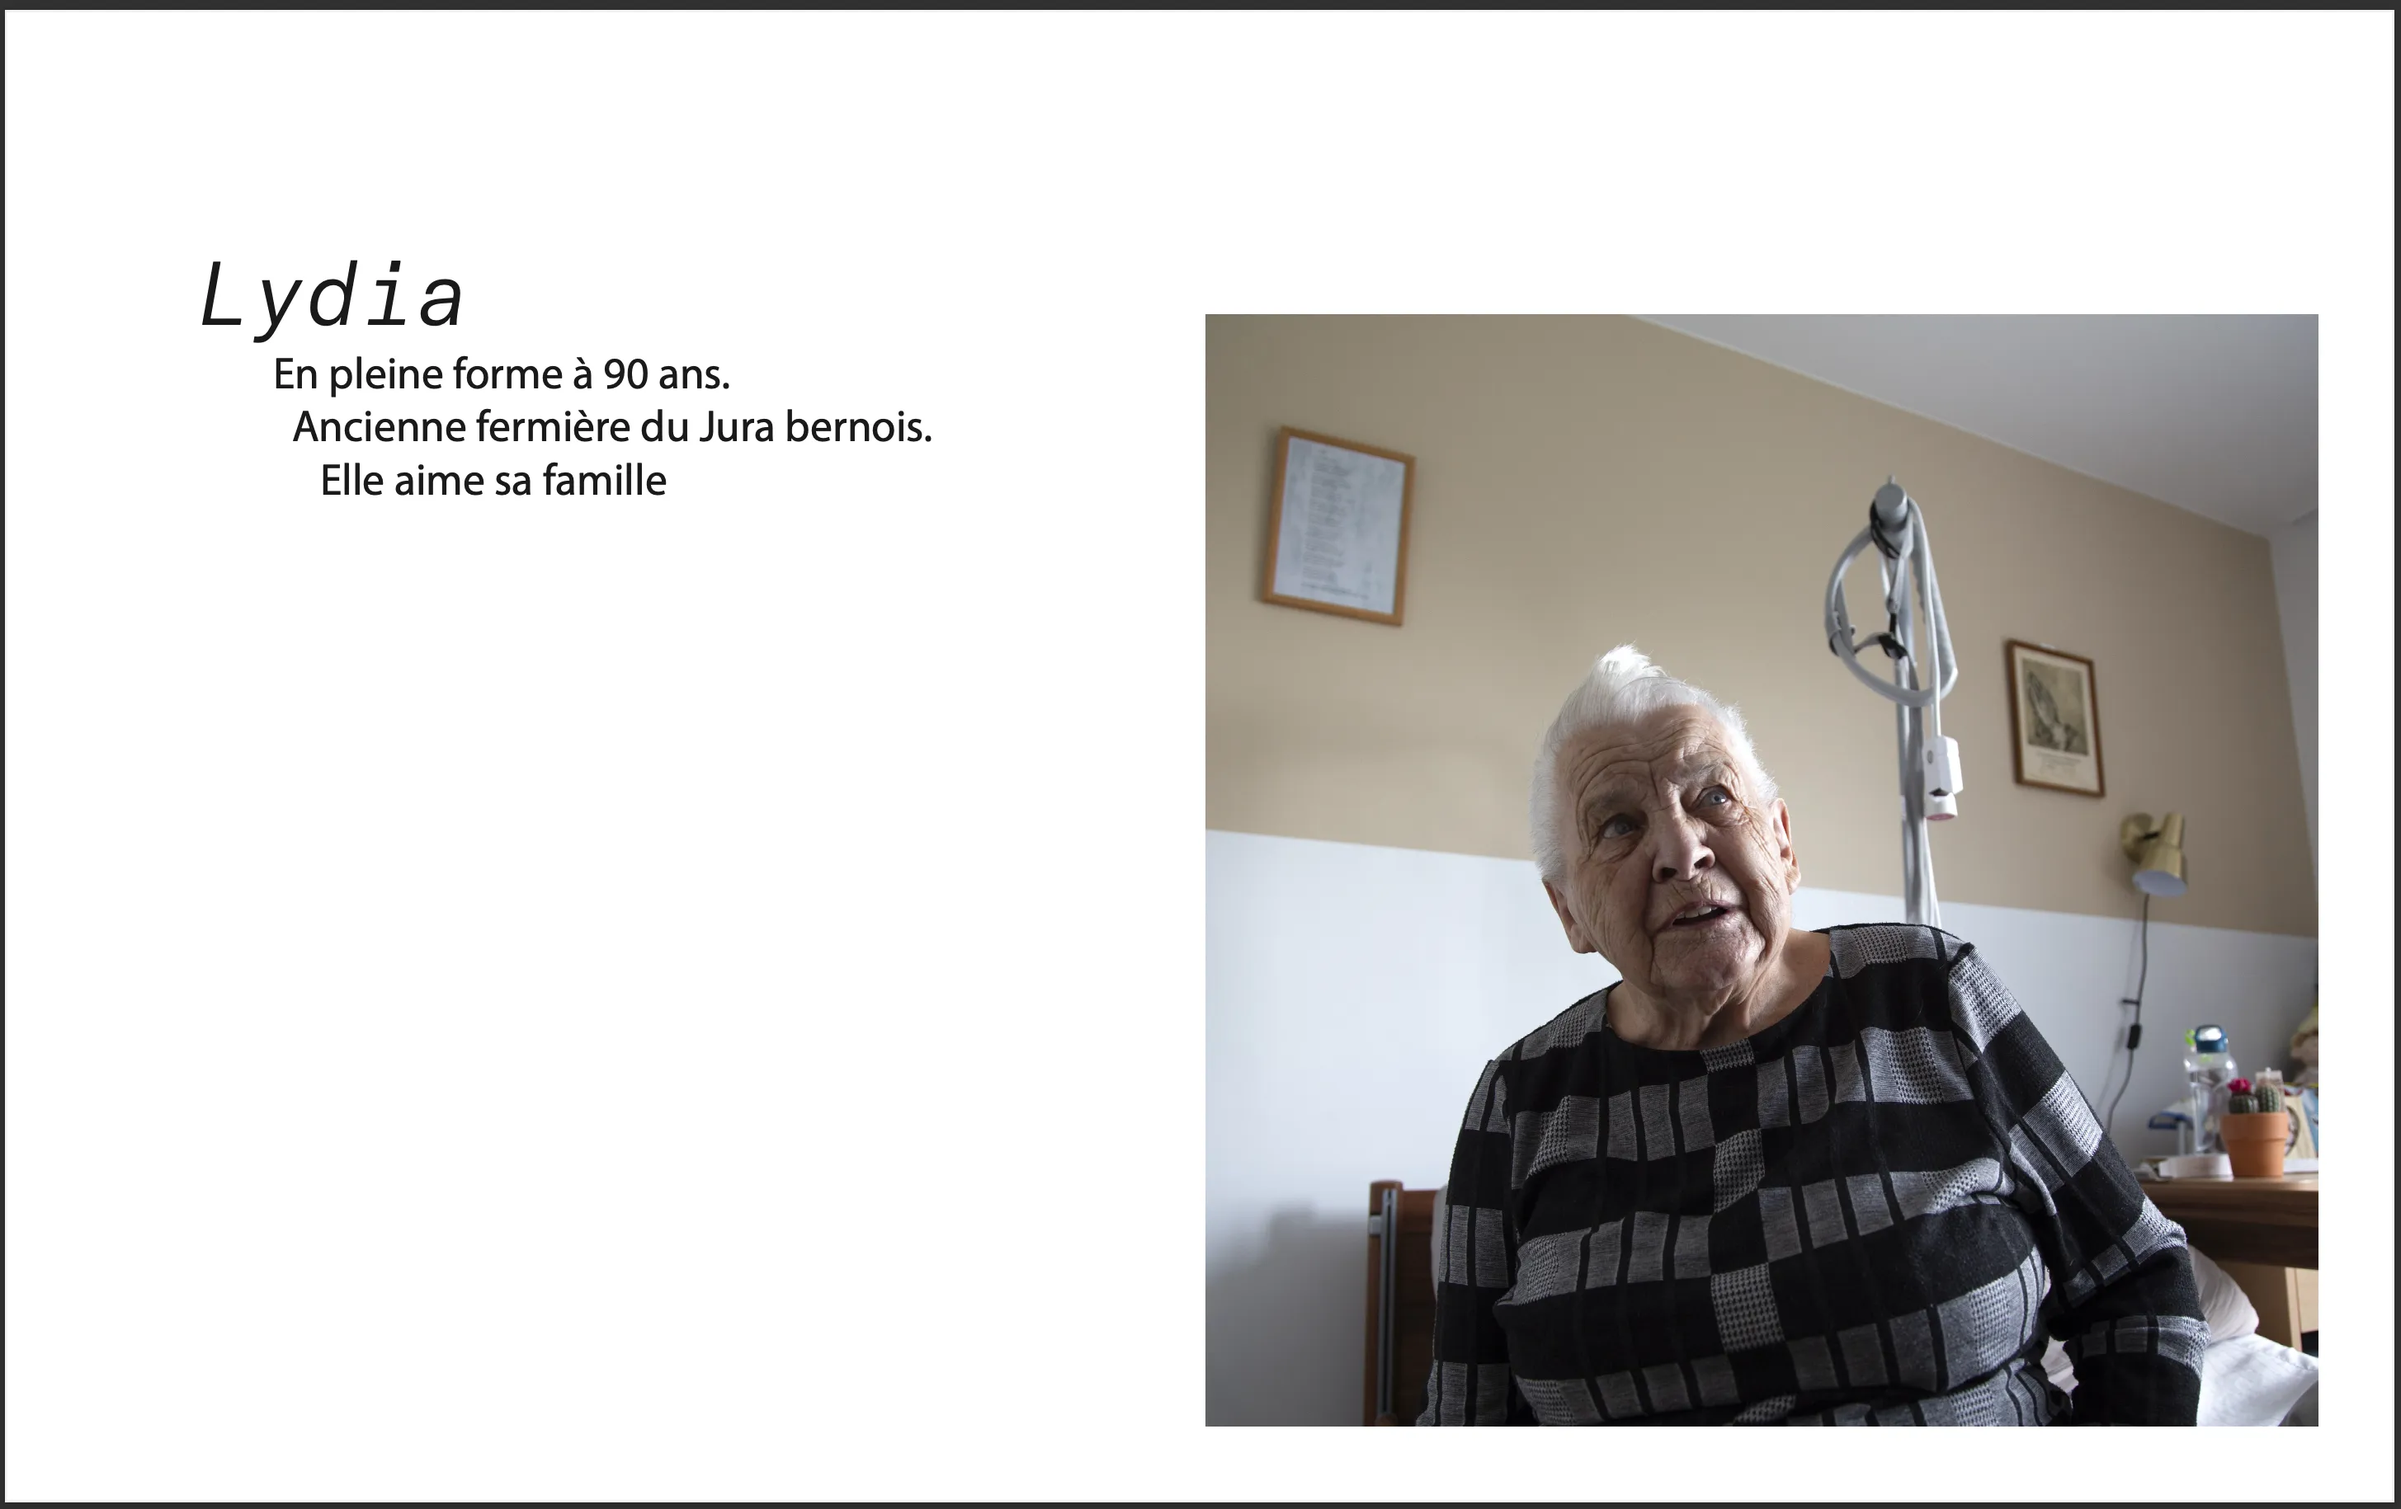
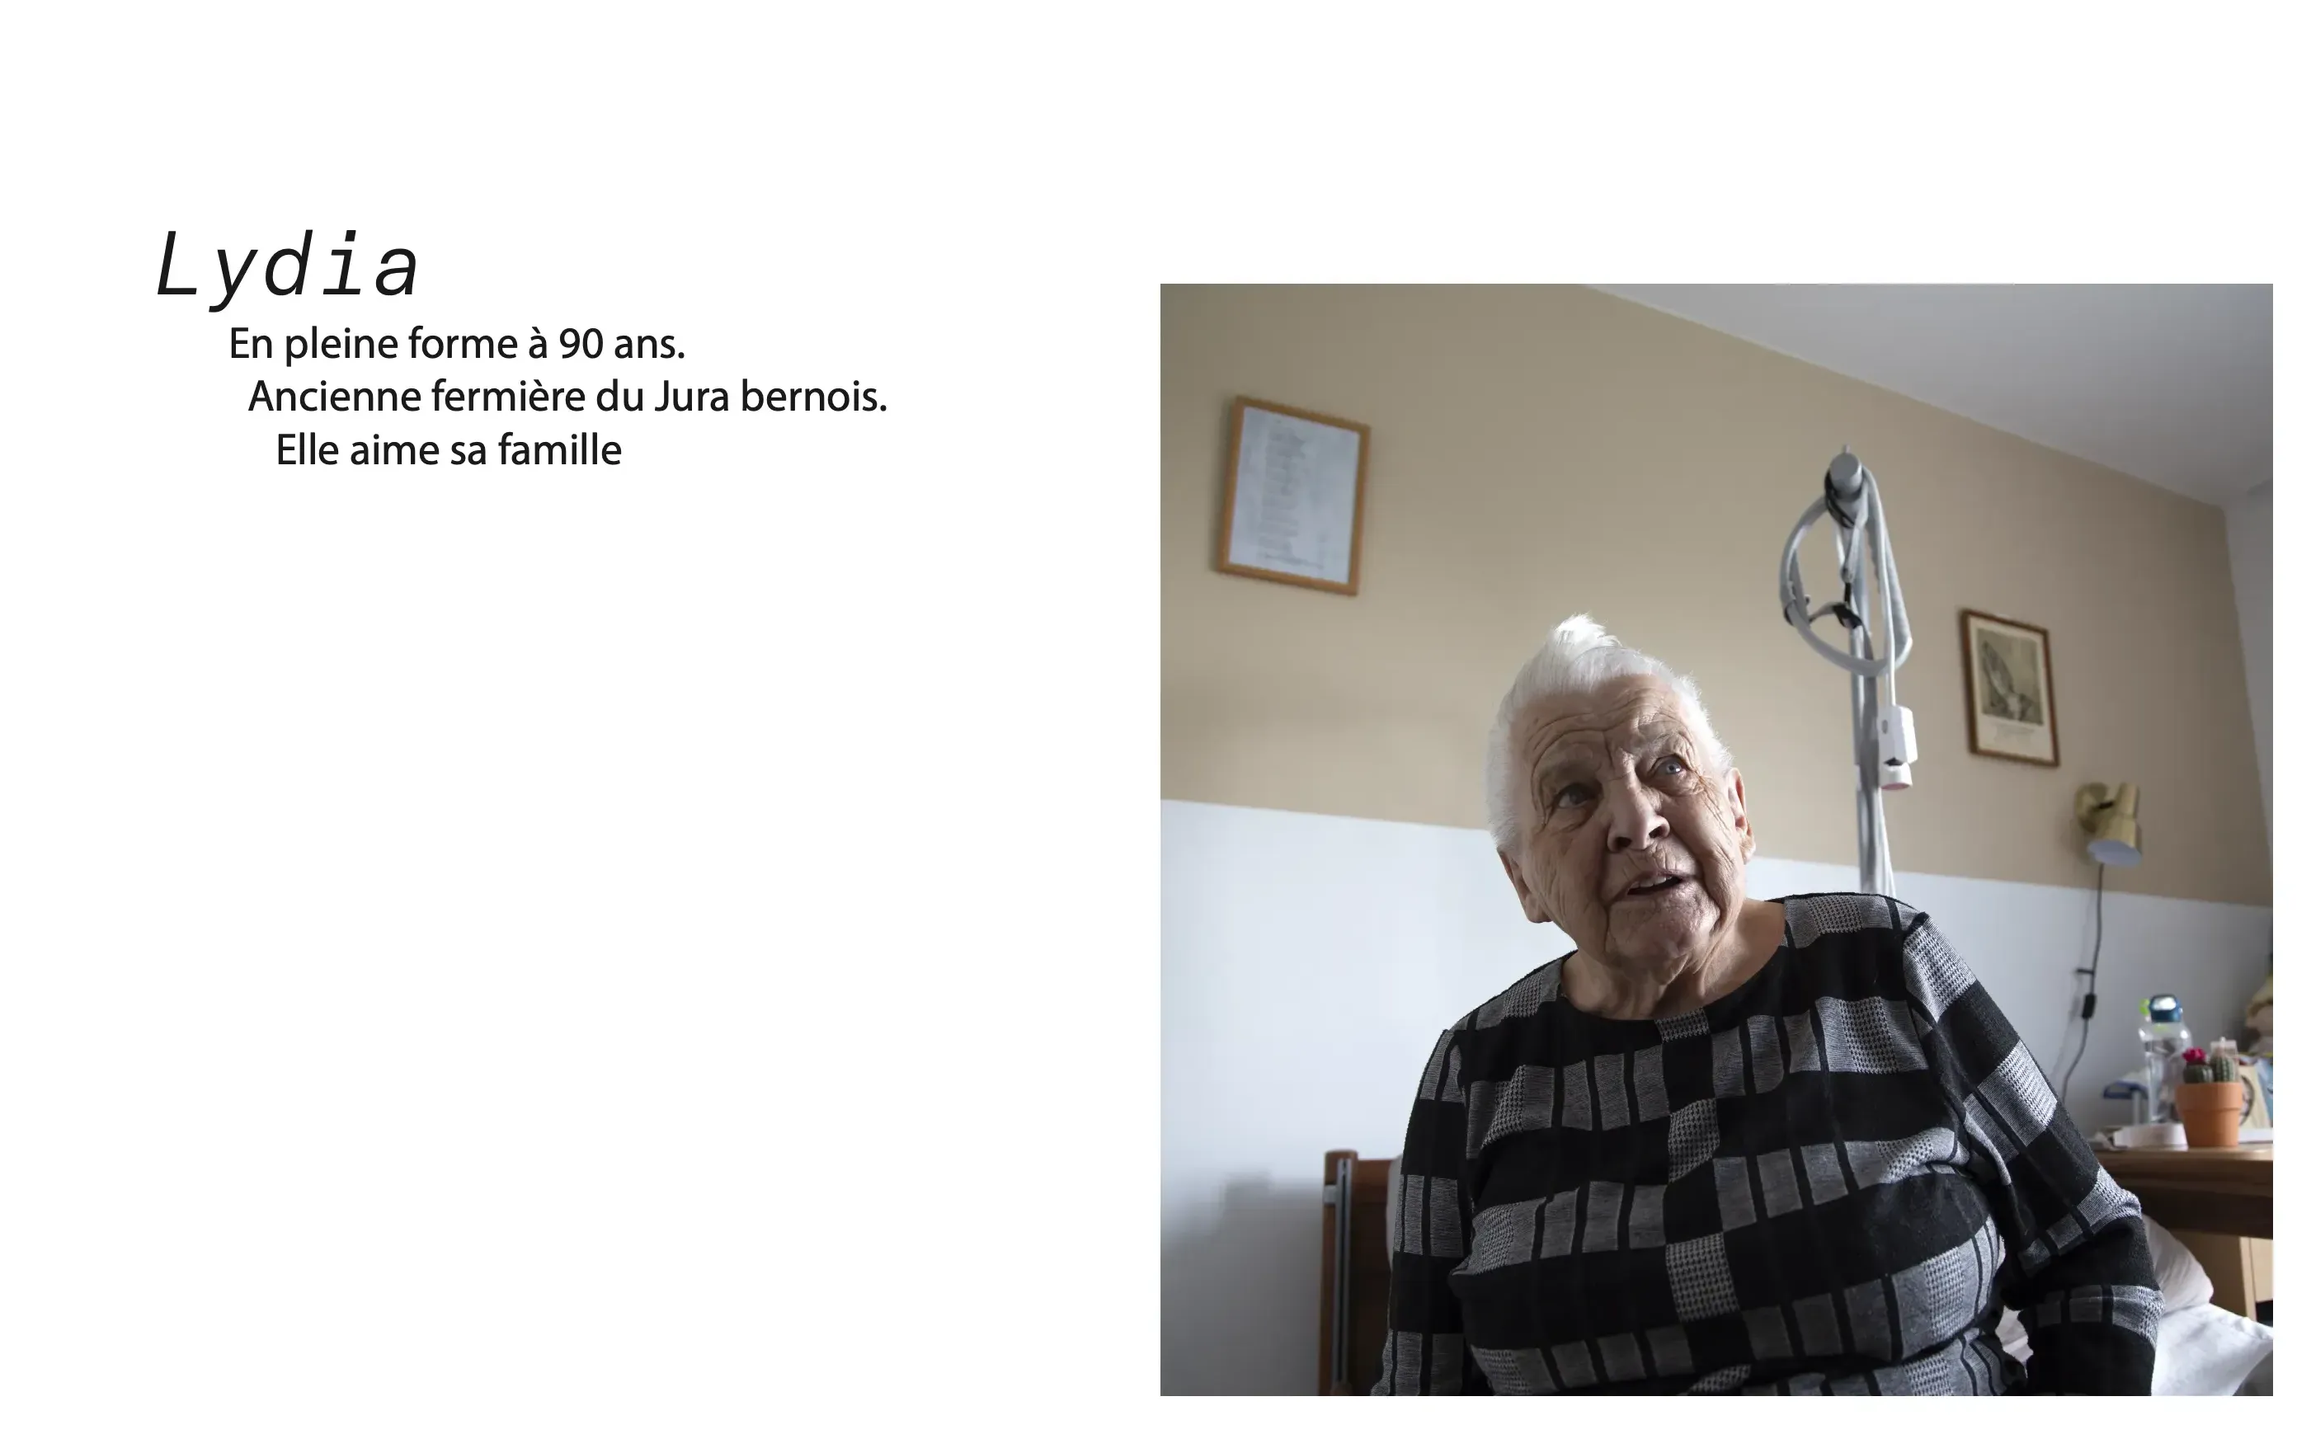
jour 6? 7?

Changed region(s): [[0.0, 0.0, 1.0, 1.0], [0.0621, 0.1561, 0.3726, 0.3434], [0.5278, 0.2497, 0.5899, 0.437]]

diff --git a/src/about-me.html b/src/about-me.html
@@ -10,6 +10,7 @@
         <h1>A propos</h1>
         <img src="symboles/étoiletitre.svg" alt="petite étoile" />
       </div>
+      <div class="l-title-space"></div>
       <div class="titles-line"></div>
     </div>
 
@@ -23,14 +24,18 @@
                 src="imagesProjets/etoile-about-me.svg"
                 alt="petite étoile"
               />
-              Bonjour ! <br />
-              Je m’appelle Eva et je suis actuellement en formation à l’Eikon en
-              deuxième année. Voici mon portfolio, qui regroupe plusieurs de mes
-              projets variés en termes de matières et d’outils. J’adore dessiner
-              et animer, mais je suis aussi une amatrice de cinéma. Ce qui me
-              plaît le plus dans ma formation, c’est le maquettage de sites
-              internet, la réalisation de vidéos ainsi que le motion design. Je
-              cherche un stage à l’externe dans le domaine de l’audiovisuel.
+              <div class="about-present-whole">
+                <div class="about-present-bonjour">Bonjour !</div>
+
+                Je m’appelle Eva et je suis actuellement en formation à l’Eikon
+                en deuxième année. Voici mon portfolio, qui regroupe plusieurs
+                de mes projets variés en termes de matières et d’outils. J’adore
+                dessiner et animer, mais je suis aussi une amatrice de cinéma.
+                Ce qui me plaît le plus dans ma formation, c’est le maquettage
+                de sites internet, la réalisation de vidéos ainsi que le motion
+                design. Je cherche un stage à l’externe dans le domaine de
+                l’audiovisuel.
+              </div>
             </div>
           </div>
 

diff --git a/src/scss/_project-miniature.scss b/src/scss/_project-miniature.scss
@@ -35,4 +35,25 @@
   border-right: 2px solid var(--Vanille, #f8e6d0);
   border-bottom: 5px solid var(--Vanille, #f8e6d0);
   border-left: 2px solid var(--Vanille, #f8e6d0);
+  transition: transform 0.2s;
+}
+
+.project-teaser-button:hover {
+  border-top: 2px solid #824034;
+  border-right: 2px solid #824034;
+  border-bottom: 4px solid #824034;
+  border-left: 2px solid #824034;
+  background: #d8a286;
+
+  h3 {
+    font-weight: 700;
+  }
+}
+
+.project-teaser-image:hover {
+  border-top: 2px solid #824034;
+  border-right: 2px solid #824034;
+  border-bottom: 4px solid #824034;
+  border-left: 2px solid #824034;
+  transform: scale(1.05);
 }

diff --git a/src/scss/_about-me.scss b/src/scss/_about-me.scss
@@ -103,6 +103,18 @@
   background: #f8e6d0;
 }
 
+.about-mail:hover {
+  border-top: 2px solid #824034;
+  border-right: 2px solid #824034;
+  border-bottom: 4px solid #824034;
+  border-left: 2px solid #824034;
+  background: #d8a286;
+
+  p {
+    font-weight: 700;
+  }
+}
+
 .about-education {
   border-radius: 30px;
   border-top: 2px solid #f8e6d0;
@@ -154,4 +166,8 @@
   text-align: center;
   font-size: 16px;
   font-weight: 400;
+}
+
+.about-present-bonjour {
+  margin-bottom: 25px;
 }

diff --git a/src/project-detail.html b/src/project-detail.html
@@ -6,9 +6,10 @@
 
     <div class="container">
       <div class="titles">
-        <h1>Titre Projet</h1>
+        <h1>Customized</h1>
         <img src="symboles/étoiletitre.svg" alt="petite étoile" />
       </div>
+      <div class="l-title-space"></div>
       <div class="titles-line"></div>
     </div>
 

diff --git a/src/scss/_header.scss b/src/scss/_header.scss
@@ -12,8 +12,13 @@
   border-bottom: 4px solid var(--Brun-caramel, #d8a286);
   border-left: 2px solid var(--Brun-caramel, #d8a286);
   background: var(--Vanille, #f8e6d0);
+  transition: transform 0.2s;
 }
 
 .header-whole {
   margin-top: 55px;
+}
+
+.header-bouton:hover {
+  transform: scale(1.1);
 }

diff --git a/src/projects.html b/src/projects.html
@@ -9,6 +9,7 @@
         <h1>Projets</h1>
         <img src="symboles/étoiletitre.svg" alt="petite étoile" />
       </div>
+      <div class="l-title-space"></div>
       <div class="titles-line"></div>
     </div>
 

diff --git a/src/project-miniature.html b/src/project-miniature.html
@@ -2,6 +2,7 @@
   <img class="project-teaser-image" src="{{ img }}" alt="{{title}}" />
   <div class="project-teaser-button">
     <h3>{{title}}</h3>
+    <h3>-</h3>
     <h3>{{subject}}</h3>
   </div>
 </a>

diff --git a/src/scss/_layout.scss b/src/scss/_layout.scss
@@ -9,3 +9,7 @@
 .l-margin-between-top {
   margin-bottom: 161px;
 }
+
+.l-title-space {
+  margin-bottom: 44px;
+}
